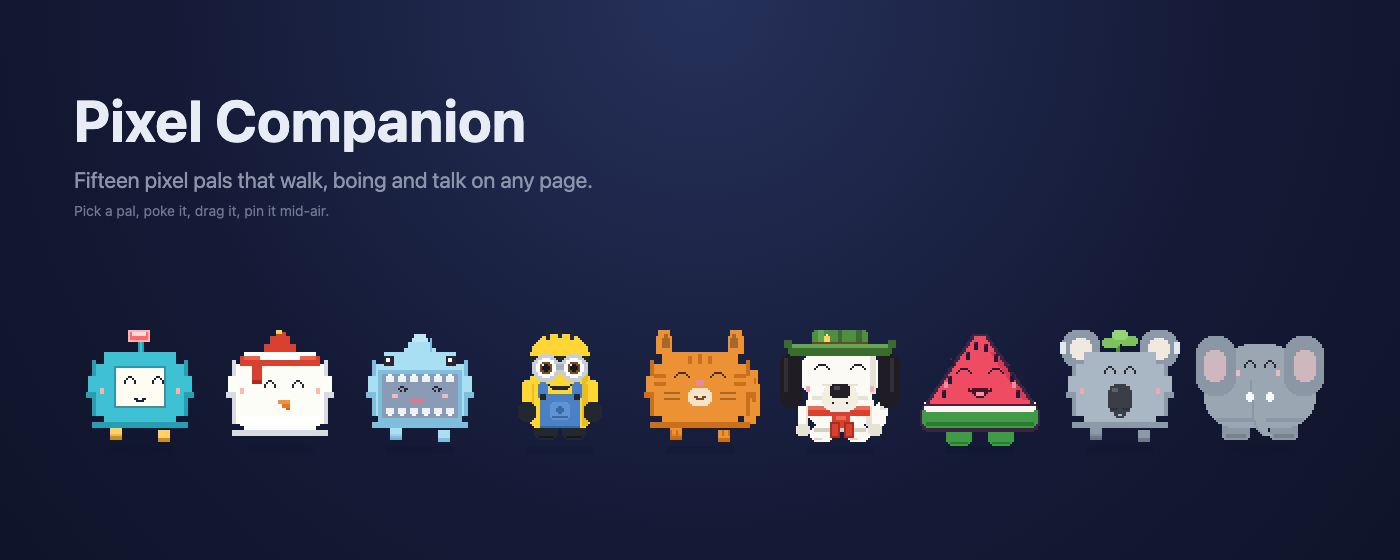
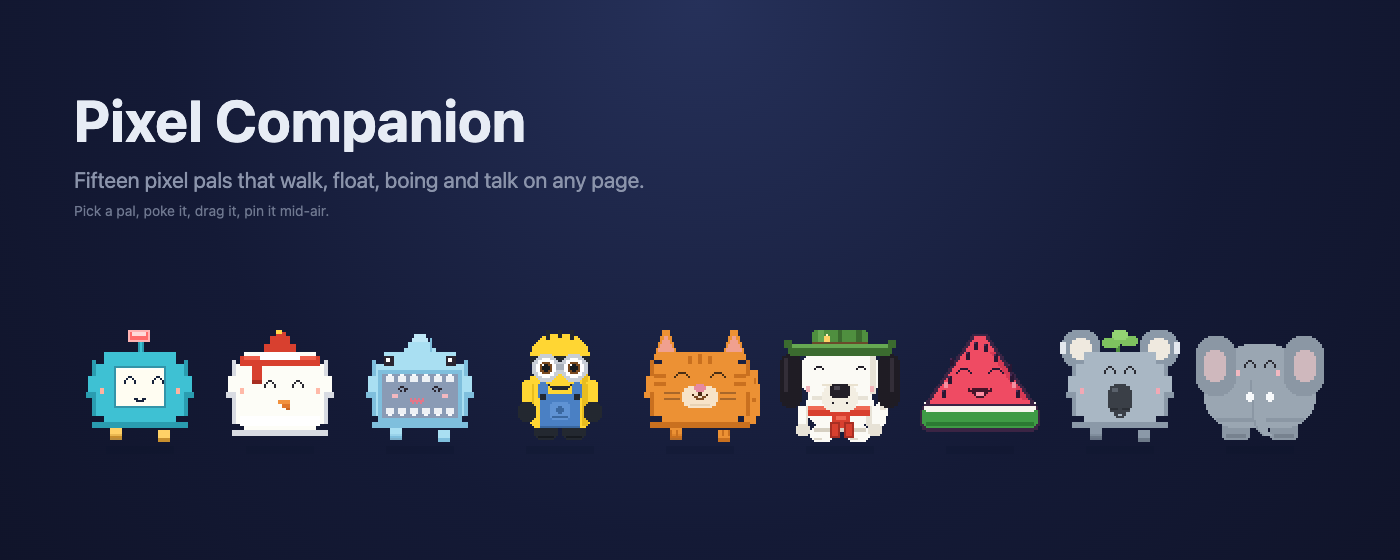
Store art: regenerate marquee + promo from current sprites
The 1400x560 marquee was generated before the Oyen, Scout Pup and
Watermelon art passes, so it still showed the old squirrel-ish ears, the
old Scout eyes and a legged watermelon. Rebuilt both tiles from the current
content/art.js via tools/store-art.html, and the copy now says "walk, float,
boing and talk" for the limbless melon.

Roster screenshot is unchanged (its happy faces are pixel-identical to the
previous generation).

diff --git a/tools/store-art.html b/tools/store-art.html
@@ -104,7 +104,7 @@
     var txt = document.createElement('div');
     txt.className = 'txt';
     txt.innerHTML = '<h1>Pixel Companion</h1>' +
-      '<p class="sub">Fifteen pixel pals that walk, boing and talk on any page.</p>';
+      '<p class="sub">Fifteen pixel pals that walk, float, boing and talk on any page.</p>';
     var dots = document.createElement('div');
     dots.className = 'dots';
     ['#3ec1d3', '#a9dff2', '#f5f7fa', '#ec9134', '#f2635f'].forEach(function (c) {
@@ -122,7 +122,7 @@
     var copy = document.createElement('div');
     copy.className = 'copy';
     copy.innerHTML = '<h1>Pixel Companion</h1>' +
-      '<p class="sub">Fifteen pixel pals that walk, boing and talk on any page.</p>' +
+      '<p class="sub">Fifteen pixel pals that walk, float, boing and talk on any page.</p>' +
       '<p class="note">Pick a pal, poke it, drag it, pin it mid-air.</p>';
     document.body.appendChild(copy);
     var row = document.createElement('div');
